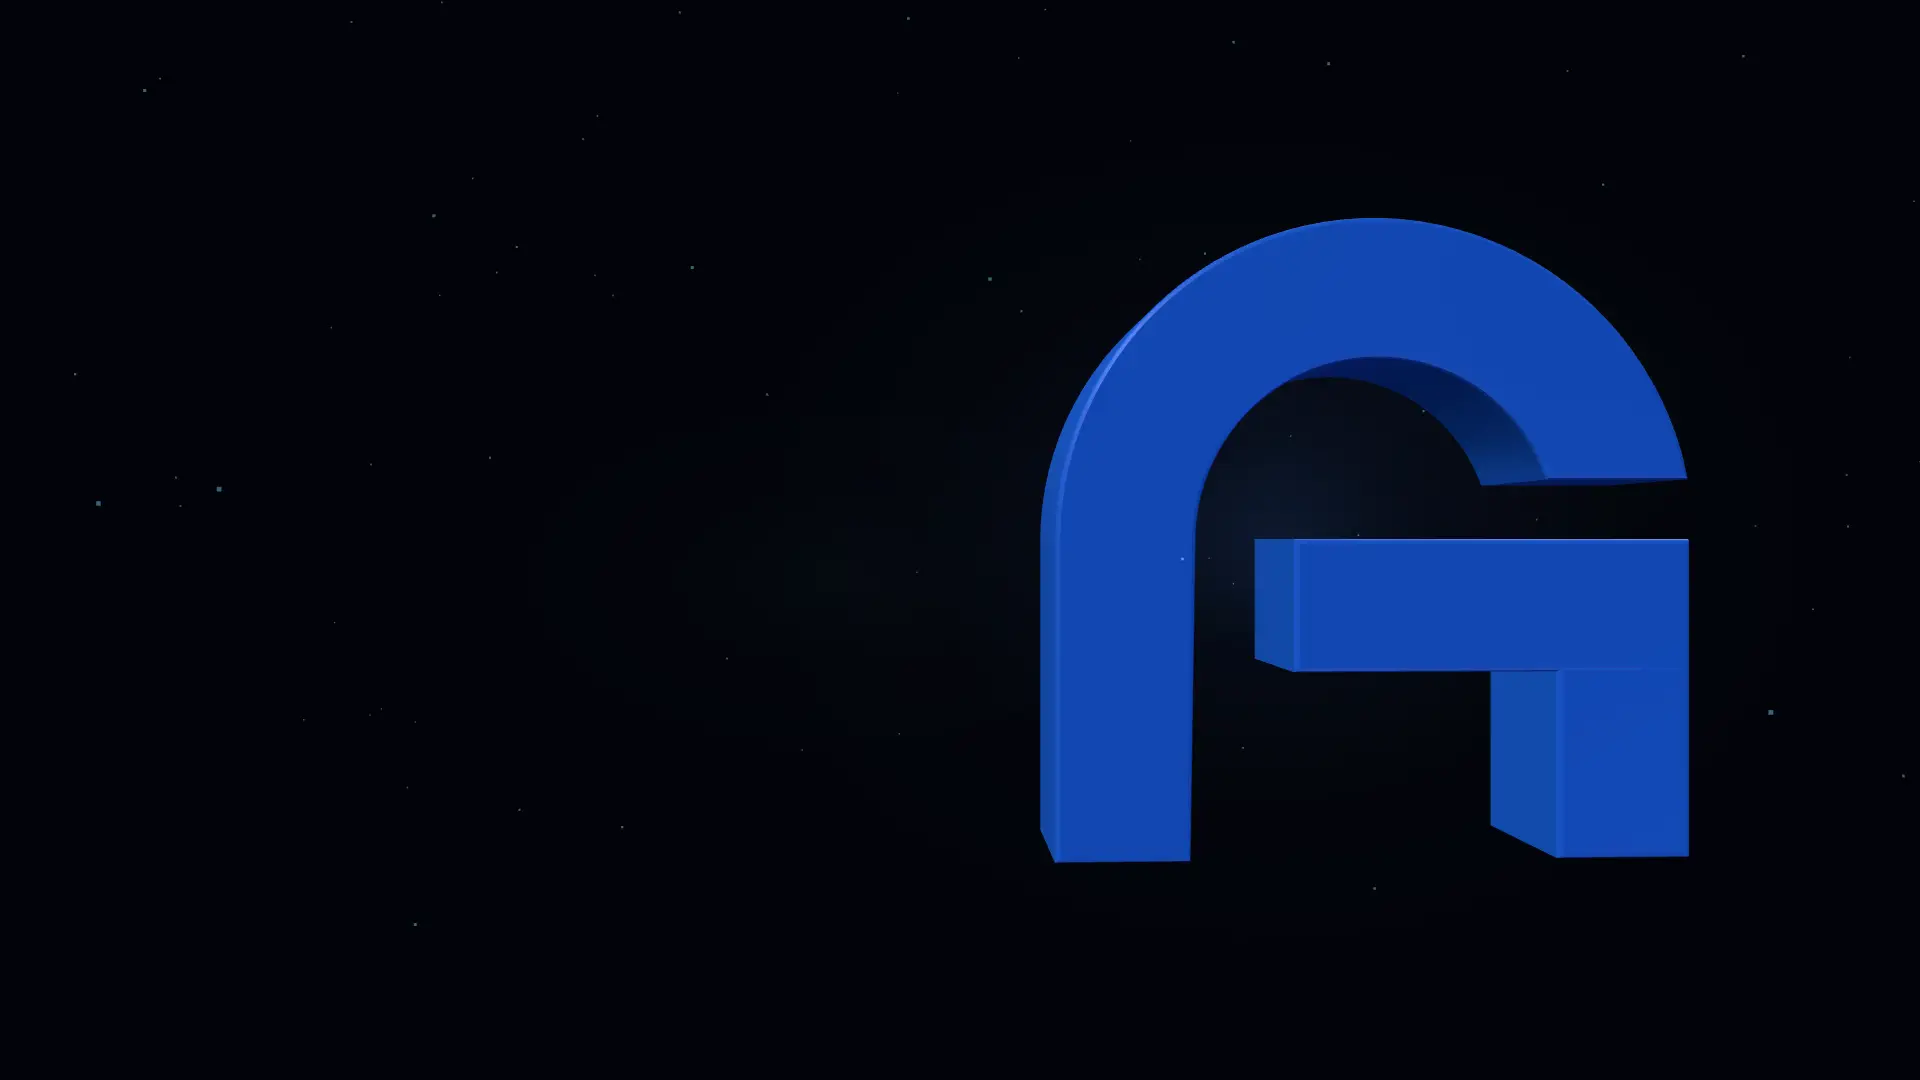
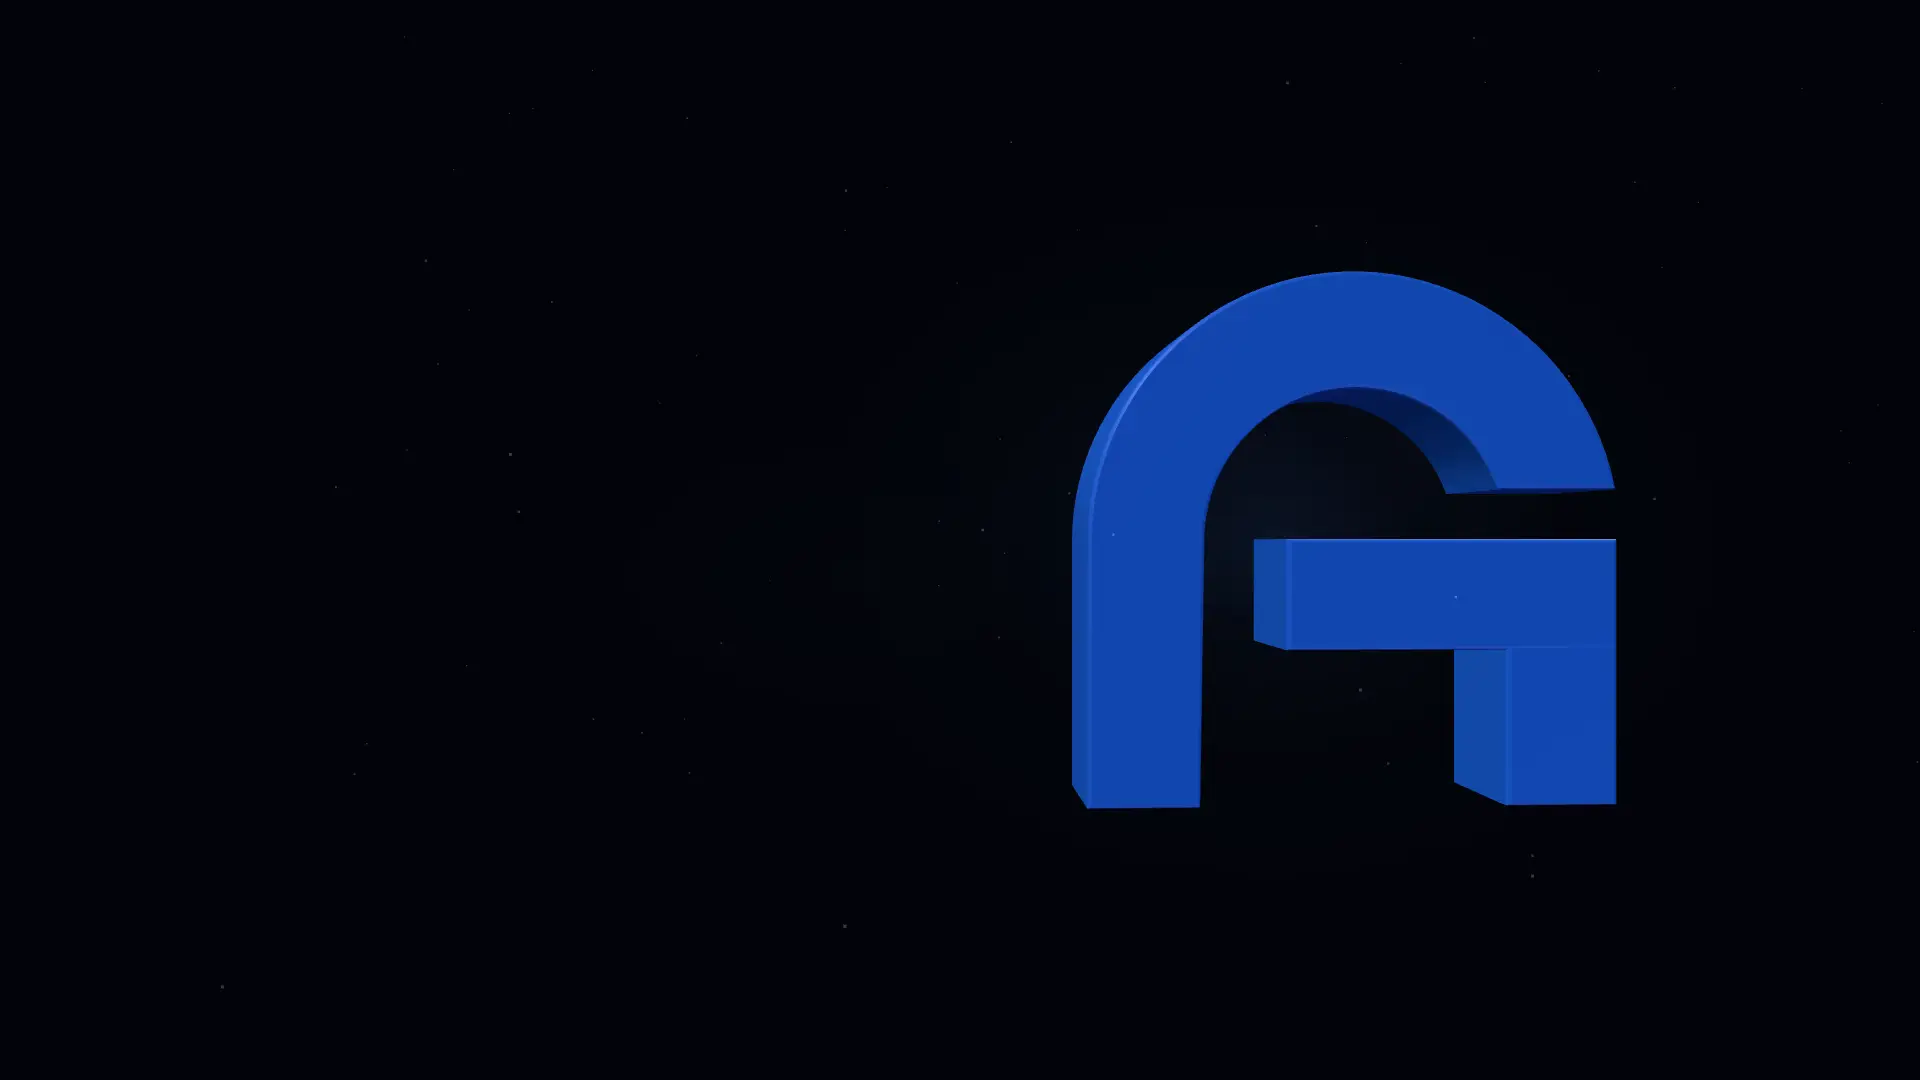
Hero G: deeper void, quieter dust, smaller desktop pose
Backdrop stripped back to true void: nebulae down to a whisper (0.05/
0.035, third one removed), halo at 0.15, dust sparser/dimmer/smaller
(120 motes, steel-blue, 0.3 opacity). Desktop resting pose pulled back
(camera 16.4, offset -4.9) so the mark holds ~50% of the viewport
height instead of crowding the composition. Poster regenerated.

Changed region(s): [[0.5312, 0.1833, 0.9062, 0.825]]

diff --git a/resources/js/marketing-hero-g.js b/resources/js/marketing-hero-g.js
@@ -233,7 +233,7 @@ export default function initHeroG(host) {
 
     // the faintest halo so the mark separates from the void
     const halo = new Sprite(new SpriteMaterial({
-        map: glowTex, color: AZURE, transparent: true, opacity: 0.26,
+        map: glowTex, color: AZURE, transparent: true, opacity: 0.15,
         blending: AdditiveBlending, depthWrite: false,
     }));
     halo.position.set(0, GY, -3.5);
@@ -243,9 +243,8 @@ export default function initHeroG(host) {
     // faint nebulae so the void has depth without stealing focus
     const nebulae = [];
     for (const n of [
-        { x: 6, y: 7, z: -26, sx: 46, sy: 24, o: 0.17, c: AZURE },
-        { x: -9, y: 2, z: -34, sx: 40, sy: 22, o: 0.11, c: ICE },
-        { x: 12, y: -4, z: -30, sx: 42, sy: 20, o: 0.12, c: AZURE },
+        { x: 6, y: 7, z: -30, sx: 46, sy: 24, o: 0.05, c: AZURE },
+        { x: -9, y: 2, z: -36, sx: 40, sy: 22, o: 0.035, c: AZURE },
     ]) {
         const s = new Sprite(new SpriteMaterial({
             map: glowTex, color: n.c, transparent: true, opacity: n.o,
@@ -258,7 +257,7 @@ export default function initHeroG(host) {
     }
 
     /* ── drifting dust ── */
-    const nDust = small ? 130 : 230;
+    const nDust = small ? 70 : 120;
     const dustPos = new Float32Array(nDust * 3);
     for (let i = 0; i < nDust; i++) {
         dustPos[i * 3] = (Math.random() - 0.5) * 30;
@@ -268,7 +267,7 @@ export default function initHeroG(host) {
     const dustGeo = new BufferGeometry();
     dustGeo.setAttribute('position', new Float32BufferAttribute(dustPos, 3));
     const dust = new Points(dustGeo, new PointsMaterial({
-        color: ICE, size: 0.07, transparent: true, opacity: 0.6,
+        color: 0x9db8e8, size: 0.045, transparent: true, opacity: 0.3,
         blending: AdditiveBlending, depthWrite: false, sizeAttenuation: true,
     }));
     scene.add(dust);
@@ -356,12 +355,12 @@ export default function initHeroG(host) {
         const wide = (host.clientWidth || window.innerWidth) >= 1024;
         // shifting the camera left pushes the G (at x=0) right of centre,
         // clearing the left-aligned headline without moving the mark itself
-        camX = wide ? -4.3 : 0;
+        camX = wide ? -4.9 : 0;
         baseScale = wide ? 1 : (small ? 0.5 : 0.6);
         gGroup.scale.setScalar(baseScale);
         // narrow layouts centre the headline, so the mark rests ABOVE it
         camYF = wide ? GY : GY - 4.05;
-        camZF = wide ? 13.8 : 15.5;
+        camZF = wide ? 16.4 : 15.5;
         if (introT === 0) {
             camera.position.set(0, GY, introZ());
             camera.lookAt(0, GY, 0);
@@ -508,7 +507,7 @@ export default function initHeroG(host) {
         // the fill line rides the glyph (and its idle float) bottom → top
         uFillY.value = gGroup.position.y - 3.3 * baseScale + progress01 * 6.6 * baseScale;
 
-        halo.material.opacity = 0.26 + 0.05 * Math.sin(t * 0.5) + hoverT * 0.06;
+        halo.material.opacity = 0.15 + 0.03 * Math.sin(t * 0.5) + hoverT * 0.05;
         for (const n of nebulae) n.s.material.opacity = n.o * (0.8 + 0.2 * Math.sin(t * 0.2 + n.phase));
         {   // dust rises and sways; wraps back under the floor of its box
             const arr = dustGeo.attributes.position.array;